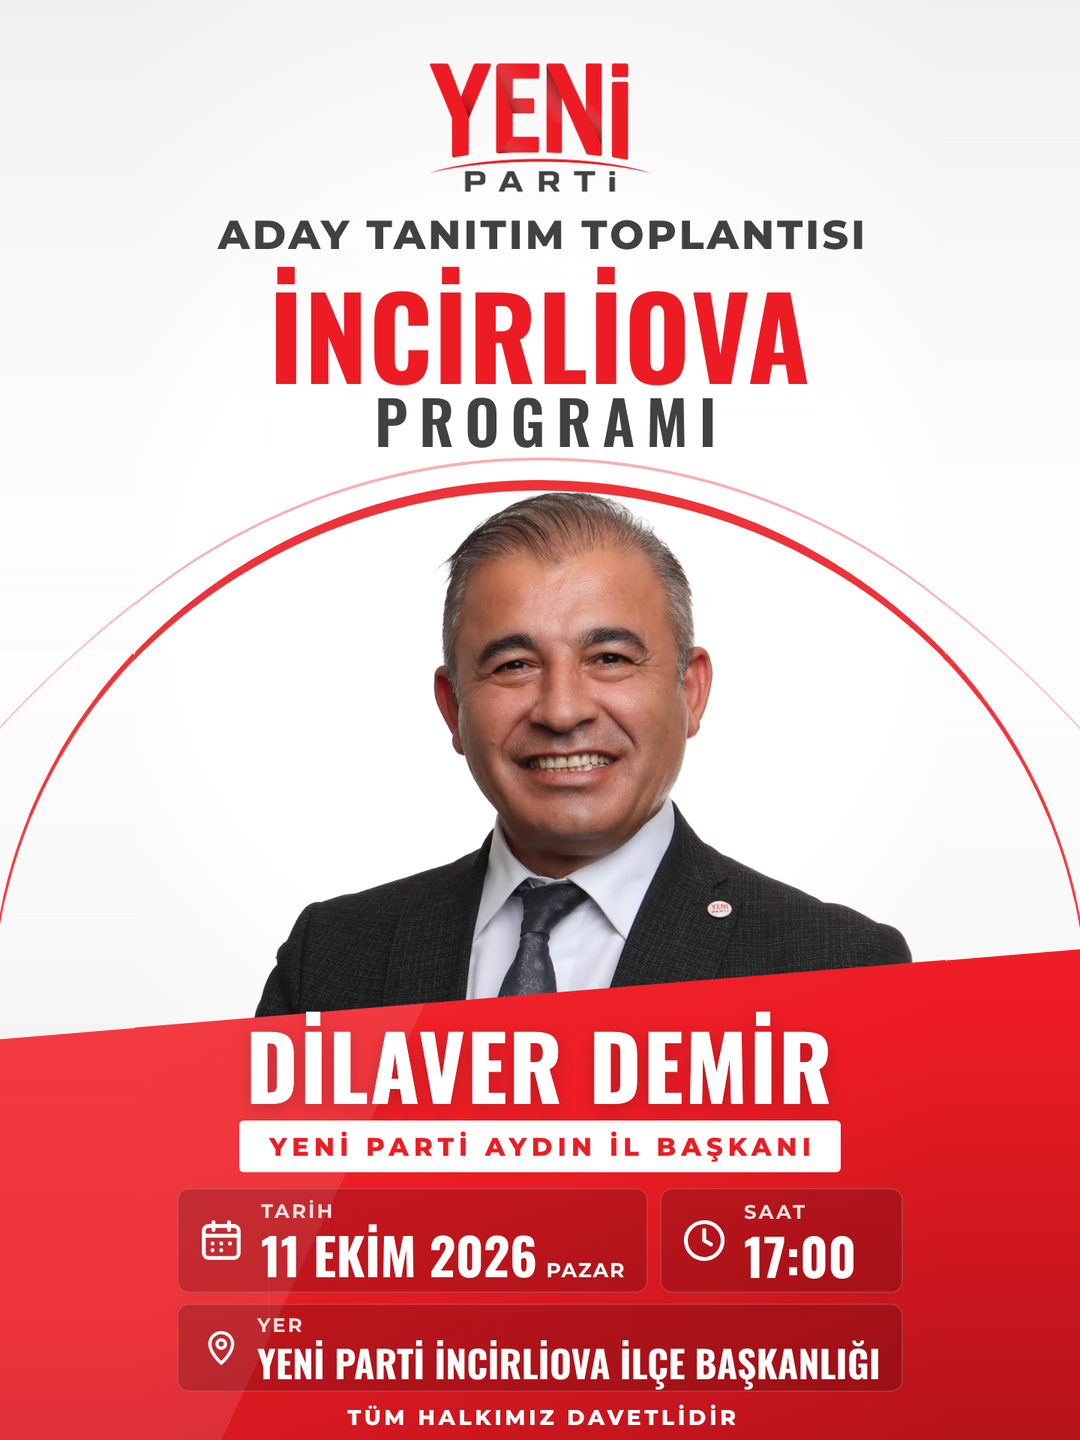
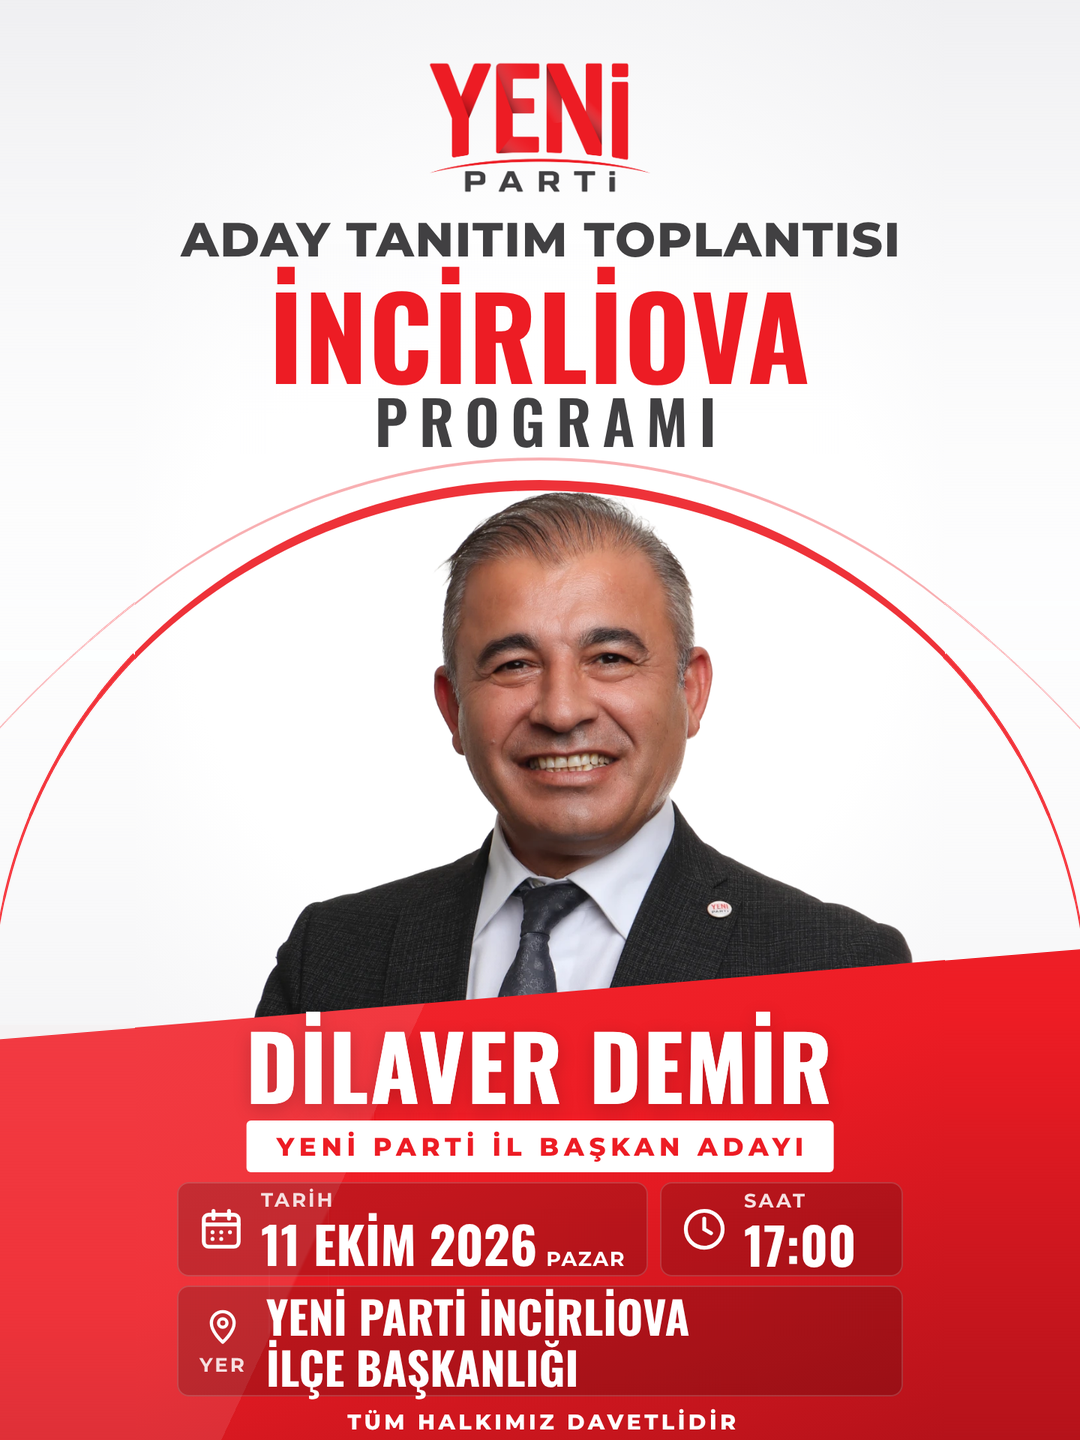
İncirliova: il başkan adayı unvanı, büyük başlık ve iki satırlı yer
Claude-Session: https://claude.ai/code/session_01SatttGbgBLoCnk9KGLypWv

Changed region(s): [[0.1528, 0.7812, 0.8556, 1.0], [0.1528, 0.1562, 0.8556, 0.1875]]

diff --git a/tasarim/kisisel/incirliova-orgut/incirliova-orgut.html b/tasarim/kisisel/incirliova-orgut/incirliova-orgut.html
@@ -10,7 +10,7 @@ body{position:relative;background:url(zemin.png) 0 0/1080px 1920px no-repeat}
 .m{position:absolute;left:0;width:1080px;text-align:center;white-space:nowrap;line-height:1}
 
 /* Kuşadası şablonundan ölçülen değerler */
-.ust{top:var(--t1);font:54px M8;letter-spacing:.07em;padding-left:.07em;color:var(--koyu)}
+.ust{top:var(--t1);font:64px M8;letter-spacing:.025em;padding-left:.025em;color:var(--koyu)}
 .sehir{top:var(--t2);font:var(--sehir-boy,150.6px) O7;letter-spacing:1.6px;color:var(--kirmizi)}
 .program{top:var(--t3);font:80.2px O6;letter-spacing:.186em;padding-left:.186em;color:var(--koyu)}
 
@@ -26,7 +26,9 @@ body{position:relative;background:url(zemin.png) 0 0/1080px 1920px no-repeat}
 .kutu small{display:block;font:26px M7;letter-spacing:.114em;color:var(--etiket);margin-bottom:8px}
 .kutu b{font:68px/1 O7;font-weight:normal}
 .kutu .gun{font:27px M7;letter-spacing:.06em;color:#fff;margin-left:12px}
-.kutu b.yer{font-size:var(--yer-boy,50px);white-space:nowrap}
+.kutu b.yer{display:block;font-size:var(--yer-boy,60px);line-height:1.14;white-space:nowrap}
+.kutu .sol{display:flex;flex-direction:column;align-items:center;gap:6px;flex:none}
+.kutu .sol small{margin:0}
 </style>
 <body style="--t1:var(--T1,280px);--t2:var(--T2,332px);--t3:var(--T3,500px)">
 
@@ -34,9 +36,9 @@ body{position:relative;background:url(zemin.png) 0 0/1080px 1920px no-repeat}
 <div class="m sehir">İNCİRLİOVA</div>
 <div class="m program">PROGRAMI</div>
 
-<div class="hap"><span>YENİ PARTİ AYDIN İL BAŞKANI</span></div>
+<div class="hap"><span>YENİ PARTİ İL BAŞKAN ADAYI</span></div>
 
-<div class="kutu" style="left:56px;top:1584px;width:628px;height:140px;padding-left:28px;gap:22px">
+<div class="kutu" style="left:56px;top:1576px;width:628px;height:126px;padding-left:28px;gap:22px">
   <svg viewBox="0 0 24 24" fill="none" stroke="#fff" stroke-width="2" stroke-linecap="round" stroke-linejoin="round">
     <rect x="3" y="4.5" width="18" height="16.5" rx="2.5"/><path d="M3 9.5h18M8 2.5v4M16 2.5v4"/>
     <path d="M7.5 13.5h.01M12 13.5h.01M16.5 13.5h.01M7.5 17h.01M12 17h.01"/>
@@ -44,18 +46,21 @@ body{position:relative;background:url(zemin.png) 0 0/1080px 1920px no-repeat}
   <div style="white-space:nowrap"><small>TARİH</small><b>11 EKİM 2026</b><span class="gun">PAZAR</span></div>
 </div>
 
-<div class="kutu" style="left:700px;top:1584px;width:324px;height:140px;padding-left:28px;gap:22px">
+<div class="kutu" style="left:700px;top:1576px;width:324px;height:126px;padding-left:28px;gap:22px">
   <svg viewBox="0 0 24 24" fill="none" stroke="#fff" stroke-width="2" stroke-linecap="round">
     <circle cx="12" cy="12" r="9.5"/><path d="M12 6.5V12l3.5 2"/>
   </svg>
   <div><small>SAAT</small><b>17:00</b></div>
 </div>
 
-<div class="kutu" style="left:56px;top:1738px;width:968px;height:118px;padding-left:28px;gap:22px">
-  <svg viewBox="0 0 24 24" fill="none" stroke="#fff" stroke-width="2" stroke-linecap="round" stroke-linejoin="round" style="width:52px;height:60px;margin-left:5px">
-    <path d="M12 21.5s-7-6.2-7-11.8a7 7 0 0 1 14 0c0 5.6-7 11.8-7 11.8z"/><circle cx="12" cy="9.7" r="2.6"/>
-  </svg>
-  <div><small>YER</small><b class="yer">YENİ PARTİ İNCİRLİOVA İLÇE BAŞKANLIĞI</b></div>
+<div class="kutu" style="left:56px;top:1714px;width:968px;height:148px;padding-left:30px;gap:26px">
+  <div class="sol">
+    <svg viewBox="0 0 24 24" fill="none" stroke="#fff" stroke-width="2" stroke-linecap="round" stroke-linejoin="round" style="width:52px;height:58px">
+      <path d="M12 21.5s-7-6.2-7-11.8a7 7 0 0 1 14 0c0 5.6-7 11.8-7 11.8z"/><circle cx="12" cy="9.7" r="2.6"/>
+    </svg>
+    <small>YER</small>
+  </div>
+  <b class="yer">YENİ PARTİ İNCİRLİOVA<br>İLÇE BAŞKANLIĞI</b>
 </div>
-<div class="m" style="top:1872px;font:28.6px M8;letter-spacing:.156em;padding-left:.156em;color:#fff">TÜM HALKIMIZ DAVETLİDİR</div>
+<div class="m" style="top:1878px;font:28.6px M8;letter-spacing:.156em;padding-left:.156em;color:#fff">TÜM HALKIMIZ DAVETLİDİR</div>
 </body></html>
